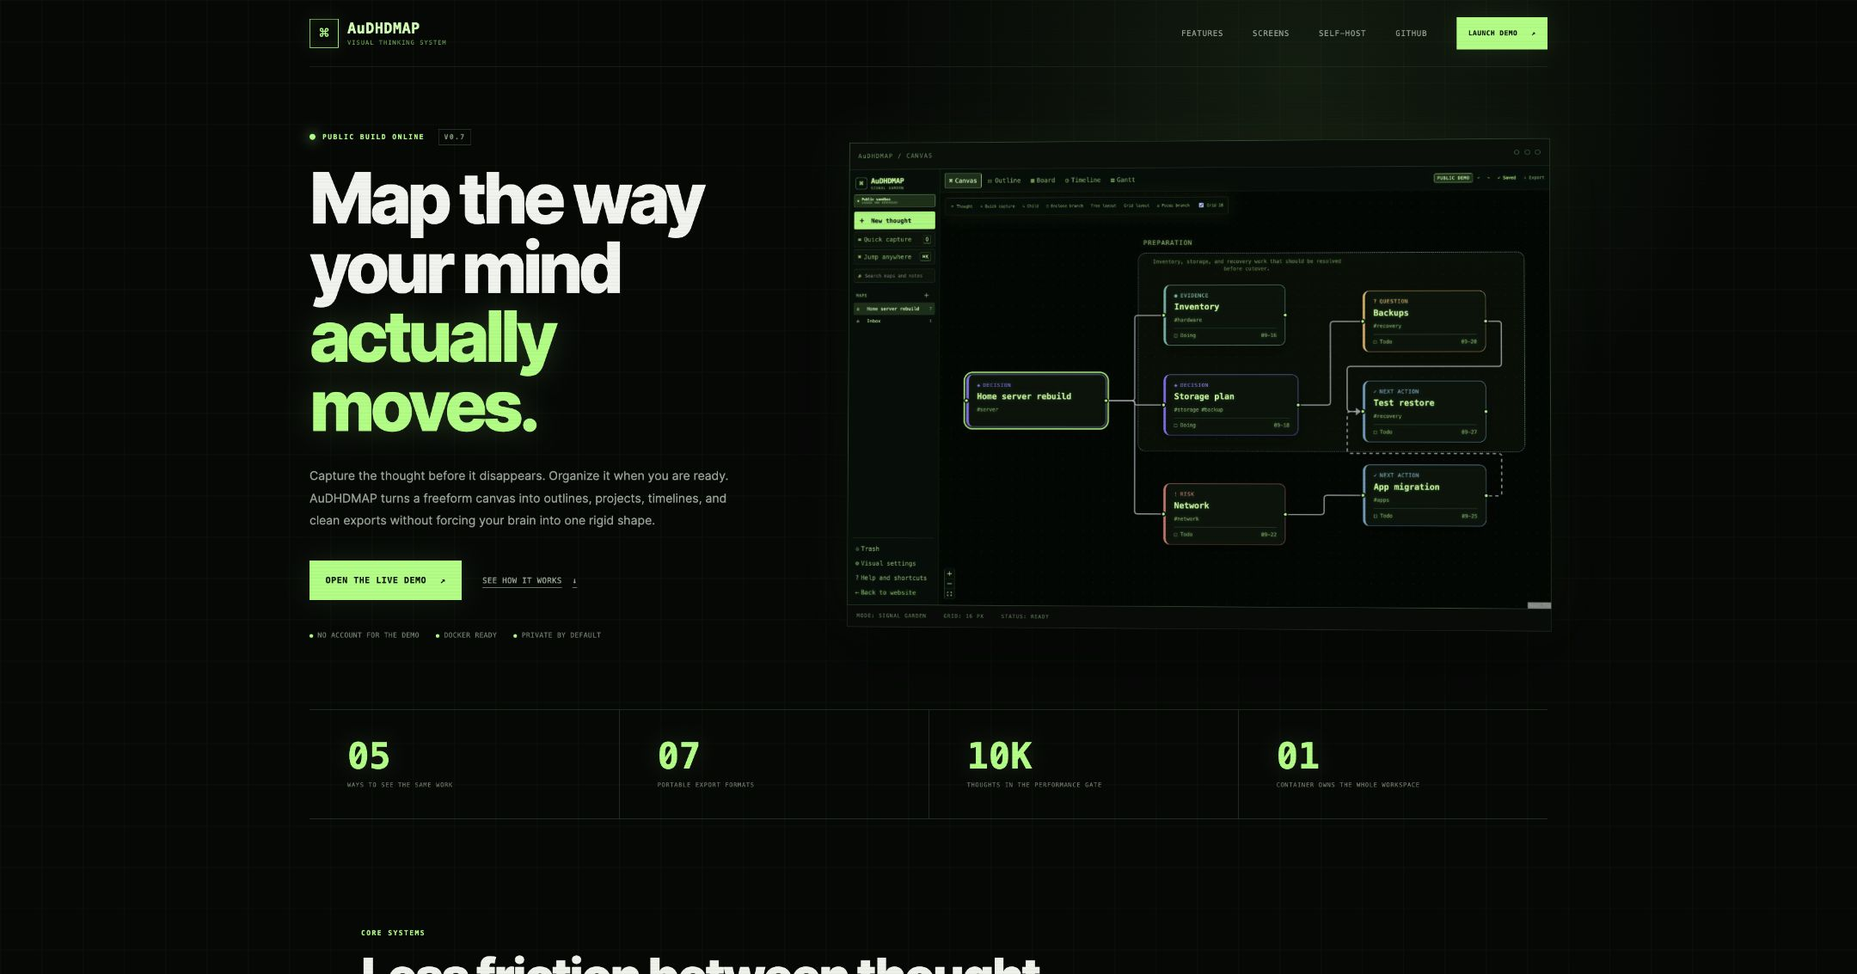
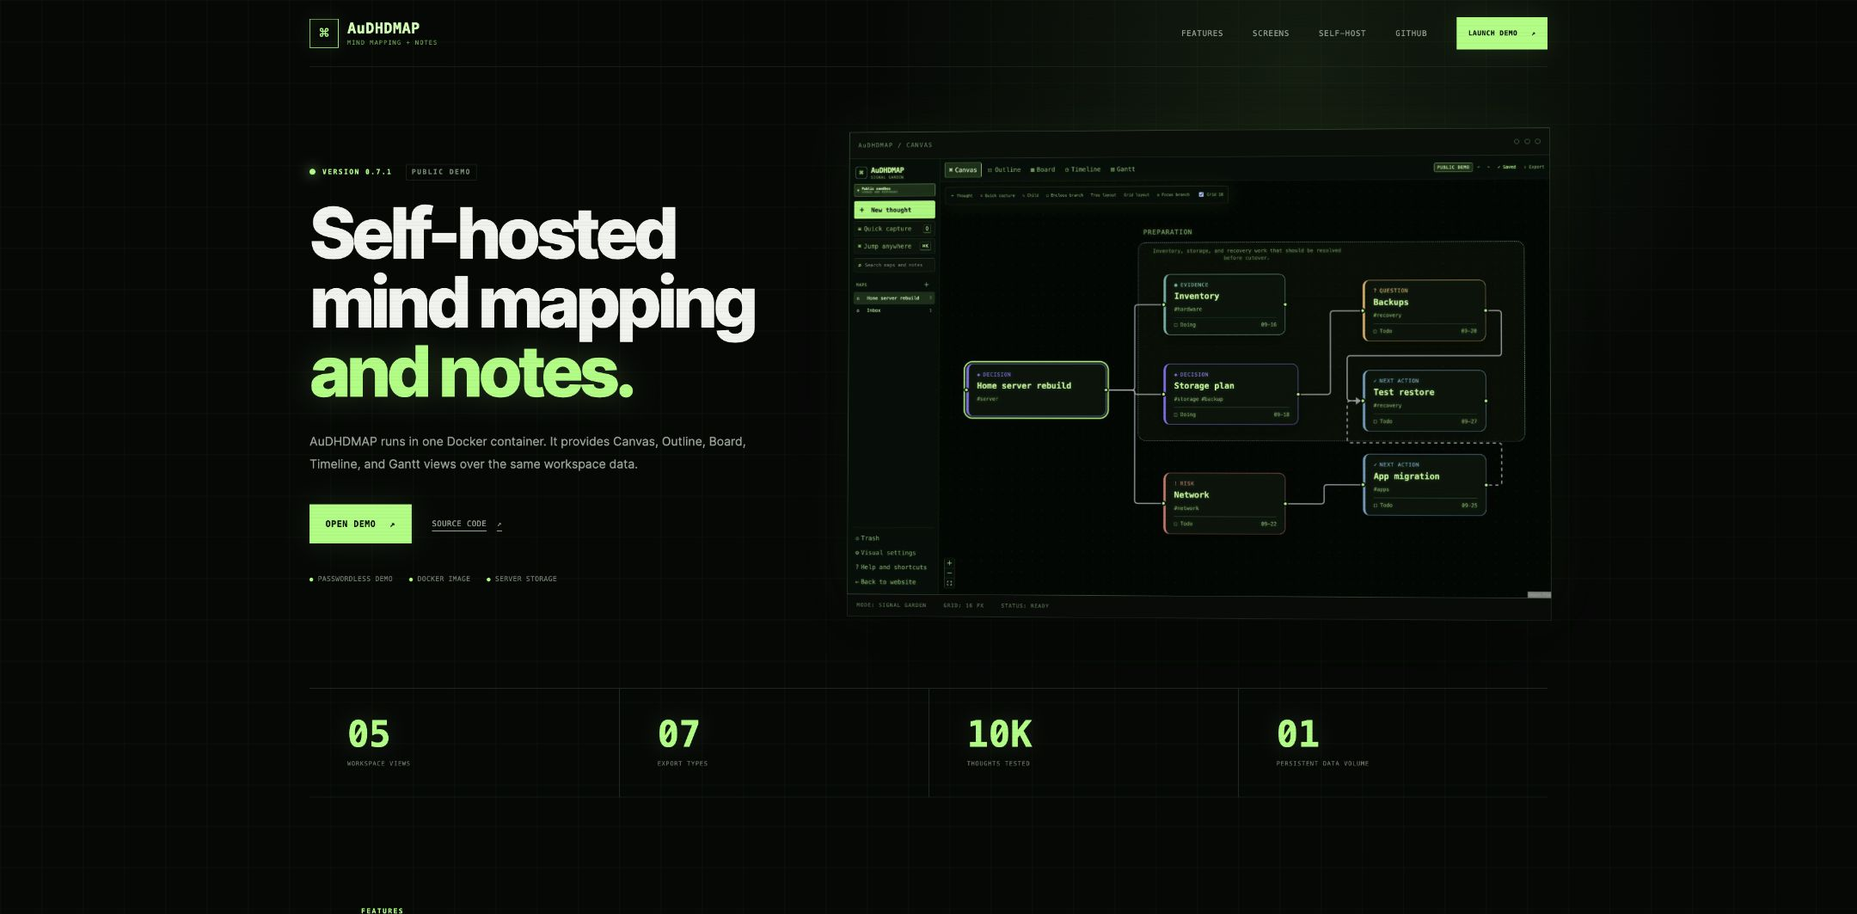
Use concise technical product copy

diff --git a/src/LandingPage.tsx b/src/LandingPage.tsx
@@ -1,14 +1,14 @@
 import { useEffect } from "react";
 
 const features = [
-  { symbol: "⌘", title: "Freeform canvas", copy: "Drop thoughts anywhere, connect them later, and let the structure emerge at your pace." },
-  { symbol: "☷", title: "Outline in one click", copy: "Move between spatial thinking and a clean hierarchical document without rebuilding your work." },
-  { symbol: "◎", title: "Branch focus", copy: "Isolate one branch, keep its context, and hide everything that is not useful right now." },
-  { symbol: "▦", title: "Thoughts become projects", copy: "Add task status, priority, dates, progress, milestones, Board, Timeline, and Gantt views." },
-  { symbol: "⌨", title: "Keyboard first", copy: "Capture, branch, outdent, search, focus, undo, and jump between ideas without leaving the keyboard." },
-  { symbol: "◫", title: "Predictable layouts", copy: "Snap to a strict grid or apply tree and grid layouts when a crowded map needs order." },
-  { symbol: "◉", title: "Sensory controls", copy: "Choose quiet, signal-green, amber CRT, workstation, or paper themes with motion and intensity controls." },
-  { symbol: "⇩", title: "Your data leaves cleanly", copy: "Export PDF, SVG, Markdown, text, project CSV, JSON, or a complete attachment-safe ZIP backup." },
+  { symbol: "⌘", title: "Canvas", copy: "Place thoughts freely, move them, connect them, and group branches inside labeled boundaries." },
+  { symbol: "☷", title: "Outline", copy: "View and edit the same map as an indented text hierarchy. Branches can be collapsed." },
+  { symbol: "◎", title: "Branch focus", copy: "Show one branch, its parents, its children, and direct references. Hide unrelated nodes." },
+  { symbol: "▦", title: "Project fields", copy: "Add status, priority, start date, due date, progress, and milestones to any thought." },
+  { symbol: "⌨", title: "Keyboard controls", copy: "Create, branch, outdent, search, focus, undo, and switch locations from the keyboard." },
+  { symbol: "◫", title: "Layouts and grid", copy: "Snap manual movement to a grid or apply tree and grid layouts to the current map." },
+  { symbol: "◉", title: "Display settings", copy: "Select one of five themes and adjust brightness, saturation, font, shape, line width, motion, and CRT effects." },
+  { symbol: "⇩", title: "Export and backup", copy: "Export PDF, SVG, Markdown, text, CSV, or JSON. Private installations also create complete ZIP backups." },
 ];
 
 export function LandingPage() {
@@ -16,8 +16,8 @@ export function LandingPage() {
     const previousTitle = document.title;
     const description = document.querySelector<HTMLMetaElement>('meta[name="description"]');
     const previousDescription = description?.content;
-    document.title = "AuDHDMAP | Visual thinking without the noise";
-    if (description) description.content = "A private, self-hosted mind mapping and note-taking workspace built for non-linear thinking, calm focus, and clean export.";
+    document.title = "AuDHDMAP | Self-hosted mind mapping and notes";
+    if (description) description.content = "A self-hosted mind mapping and note-taking application for Docker and BoxPilot.";
     return () => {
       document.title = previousTitle;
       if (description && previousDescription) description.content = previousDescription;
@@ -26,7 +26,7 @@ export function LandingPage() {
 
   return <div className="site-page">
     <header className="site-nav">
-      <a className="site-brand" href="#top" aria-label="AuDHDMAP home"><span>⌘</span><strong>AuDHDMAP</strong><small>VISUAL THINKING SYSTEM</small></a>
+      <a className="site-brand" href="#top" aria-label="AuDHDMAP home"><span>⌘</span><strong>AuDHDMAP</strong><small>MIND MAPPING + NOTES</small></a>
       <nav aria-label="Website"><a href="#features">Features</a><a href="#screens">Screens</a><a href="#self-host">Self-host</a><a href="https://github.com/AES256Afro/AuDHDMAP">GitHub</a></nav>
       <a className="site-button small" href="/demo">Launch demo <span aria-hidden="true">↗</span></a>
     </header>
@@ -34,11 +34,11 @@ export function LandingPage() {
     <main id="top">
       <section className="site-hero">
         <div className="site-hero-copy">
-          <div className="site-kicker"><i /> PUBLIC BUILD ONLINE <span>V0.7</span></div>
-          <h1>Map the way your mind <em>actually moves.</em></h1>
-          <p>Capture the thought before it disappears. Organize it when you are ready. AuDHDMAP turns a freeform canvas into outlines, projects, timelines, and clean exports without forcing your brain into one rigid shape.</p>
-          <div className="site-actions"><a className="site-button" href="/demo">Open the live demo <span aria-hidden="true">↗</span></a><a className="site-text-link" href="#screens">See how it works <span aria-hidden="true">↓</span></a></div>
-          <div className="site-proof" aria-label="Product qualities"><span><b>●</b> No account for the demo</span><span><b>●</b> Docker ready</span><span><b>●</b> Private by default</span></div>
+          <div className="site-kicker"><i /> VERSION 0.7.1 <span>PUBLIC DEMO</span></div>
+          <h1>Self-hosted mind mapping <em>and notes.</em></h1>
+          <p>AuDHDMAP runs in one Docker container. It provides Canvas, Outline, Board, Timeline, and Gantt views over the same workspace data.</p>
+          <div className="site-actions"><a className="site-button" href="/demo">Open demo <span aria-hidden="true">↗</span></a><a className="site-text-link" href="https://github.com/AES256Afro/AuDHDMAP">Source code <span aria-hidden="true">↗</span></a></div>
+          <div className="site-proof" aria-label="Product details"><span><b>●</b> Passwordless demo</span><span><b>●</b> Docker image</span><span><b>●</b> Server storage</span></div>
         </div>
         <div className="site-hero-screen">
           <div className="screen-frame"><div className="screen-bar"><span>AuDHDMAP / CANVAS</span><i /><i /><i /></div><img src="/site/canvas-map.jpg" alt="AuDHDMAP signal-green canvas showing a connected home server project map" /></div>
@@ -47,47 +47,47 @@ export function LandingPage() {
       </section>
 
       <section className="site-metrics" aria-label="Product summary">
-        <article><strong>05</strong><span>ways to see the same work</span></article>
-        <article><strong>07</strong><span>portable export formats</span></article>
-        <article><strong>10K</strong><span>thoughts in the performance gate</span></article>
-        <article><strong>01</strong><span>container owns the whole workspace</span></article>
+        <article><strong>05</strong><span>workspace views</span></article>
+        <article><strong>07</strong><span>export types</span></article>
+        <article><strong>10K</strong><span>thoughts tested</span></article>
+        <article><strong>01</strong><span>persistent data volume</span></article>
       </section>
 
       <section className="site-section" id="features">
-        <header className="site-section-heading"><div><span className="site-label">CORE SYSTEMS</span><h2>Less friction between thought and structure.</h2></div><p>Every feature is there to make capturing easier, context clearer, and recovery less frightening.</p></header>
+        <header className="site-section-heading"><div><span className="site-label">FEATURES</span><h2>Workspace functions</h2></div><p>The same saved workspace is used in every view and export.</p></header>
         <div className="site-feature-grid">{features.map((feature, index) => <article key={feature.title}><span className="feature-number">{String(index + 1).padStart(2, "0")}</span><i>{feature.symbol}</i><h3>{feature.title}</h3><p>{feature.copy}</p></article>)}</div>
       </section>
 
       <section className="site-section site-screens" id="screens">
-        <header className="site-section-heading"><div><span className="site-label">ONE MAP, MANY MODES</span><h2>Spatial when you need it. Linear when you do not.</h2></div><p>The data stays the same while the view changes around your task.</p></header>
+        <header className="site-section-heading"><div><span className="site-label">INTERFACE</span><h2>Canvas, outline, and export</h2></div><p>These screenshots were captured from version 0.7.1.</p></header>
         <div className="screen-story">
-          <article className="screen-story-copy"><span>01 / CANVAS</span><h3>Think before you format.</h3><p>Place ideas freely, connect related thoughts, draw stable boundaries, then apply an orderly layout only when it helps.</p><ul><li>Free pan and zoom</li><li>Tree and grid auto-layout</li><li>Cross-map references</li><li>Strict Branch Focus</li></ul></article>
+          <article className="screen-story-copy"><span>01 / CANVAS</span><h3>Canvas view</h3><p>Place, move, connect, and group thoughts on a pan-and-zoom canvas.</p><ul><li>Pan and zoom</li><li>Tree and grid layouts</li><li>Cross-map references</li><li>Branch focus</li></ul></article>
           <div className="screen-frame large"><div className="screen-bar"><span>SPATIAL WORKSPACE</span><i /><i /><i /></div><img src="/site/canvas-map.jpg" alt="Freeform AuDHDMAP canvas with linked thoughts and a details inspector" /></div>
         </div>
         <div className="screen-story reverse">
-          <article className="screen-story-copy"><span>02 / OUTLINE</span><h3>Turn the same map into a document.</h3><p>Edit titles in a predictable hierarchy, collapse branches, and keep references visible without losing the original spatial map.</p><ul><li>Instant map-to-outline switch</li><li>Inline title editing</li><li>Collapsed branch counts</li><li>Project-ready hierarchy</li></ul></article>
+          <article className="screen-story-copy"><span>02 / OUTLINE</span><h3>Outline view</h3><p>Edit the same map as an indented hierarchy. References remain separate from parent and child branches.</p><ul><li>Immediate view switch</li><li>Inline title editing</li><li>Collapsed branches</li><li>Task fields retained</li></ul></article>
           <div className="screen-frame large"><div className="screen-bar"><span>LINEAR WORKSPACE</span><i /><i /><i /></div><img src="/site/outline-view.jpg" alt="AuDHDMAP outline view showing the same project as a clean hierarchy" /></div>
         </div>
         <div className="screen-story">
-          <article className="screen-story-copy"><span>03 / EXPORT</span><h3>Leave with useful files, not a hostage format.</h3><p>Share what is visible, hand a project to a spreadsheet, or back up the entire workspace with its attachments and integrity checks.</p><ul><li>Visual PDF plus readable outline</li><li>SVG, Markdown, and plain text</li><li>Project CSV and JSON</li><li>Complete ZIP backup and restore</li></ul></article>
-          <div className="screen-frame large"><div className="screen-bar"><span>PORTABLE BY DESIGN</span><i /><i /><i /></div><img src="/site/export-panel.jpg" alt="AuDHDMAP export panel with PDF, SVG, Markdown, text, and project CSV choices" /></div>
+          <article className="screen-story-copy"><span>03 / EXPORT</span><h3>Export panel</h3><p>Export the current map or focused branch. Private installations also provide complete backup and restore.</p><ul><li>PDF with map and outline</li><li>SVG, Markdown, and text</li><li>Project CSV and JSON</li><li>ZIP backup and restore</li></ul></article>
+          <div className="screen-frame large"><div className="screen-bar"><span>EXPORT OPTIONS</span><i /><i /><i /></div><img src="/site/export-panel.jpg" alt="AuDHDMAP export panel with PDF, SVG, Markdown, text, and project CSV choices" /></div>
         </div>
       </section>
 
       <section className="site-section sensory-section">
-        <div><span className="site-label">SENSORY CONTROL</span><h2>Calm is a setting, not an assumption.</h2><p>Choose the environment your eyes and attention can work with today. Theme, contrast, brightness, saturation, branch font, node shape, line weight, grid behavior, motion, and CRT effects are all adjustable.</p></div>
+        <div><span className="site-label">DISPLAY</span><h2>Theme and display settings</h2><p>Select a theme and adjust brightness, saturation, branch font, node shape, line width, grid behavior, motion, and CRT effects.</p></div>
         <div className="theme-console" aria-label="Available themes"><article className="theme-quiet"><i /><strong>Quiet canvas</strong><small>LOW STIMULUS</small></article><article className="theme-signal"><i /><strong>Signal garden</strong><small>GREEN CRT</small></article><article className="theme-amber"><i /><strong>Amber operator</strong><small>WARM CRT</small></article><article className="theme-workstation"><i /><strong>Workstation 84</strong><small>RETRO DESKTOP</small></article><article className="theme-paper"><i /><strong>Paper atlas</strong><small>LIGHT READING</small></article></div>
       </section>
 
       <section className="site-section self-host-section" id="self-host">
-        <div className="self-host-copy"><span className="site-label">YOUR SERVER, YOUR NOTES</span><h2>Private by default. Portable on purpose.</h2><p>AuDHDMAP runs as one Docker container with one durable data volume. Install through BoxPilot or use Docker Compose. There is no required cloud account, analytics service, or proprietary sync layer.</p><div className="site-actions"><a className="site-button" href="https://github.com/AES256Afro/AuDHDMAP#run-with-docker-compose">Install with Docker</a><a className="site-text-link" href="https://github.com/AES256Afro/BoxPilot">View BoxPilot</a></div></div>
-        <div className="terminal-card"><header><span>BOXPILOT / APP CATALOGUE</span><b>● READY</b></header><pre><code><span>$</span> docker compose up -d{`\n\n`}✓ private owner login{`\n`}✓ persistent /data volume{`\n`}✓ built-in health check{`\n`}✓ complete ZIP recovery{`\n`}✓ amd64 + arm64 images</code></pre><footer>NO THIRD-PARTY ACCOUNT REQUIRED</footer></div>
+        <div className="self-host-copy"><span className="site-label">DEPLOYMENT</span><h2>Docker and BoxPilot</h2><p>The application uses one container and one persistent `/data` volume. Private installations require an owner password and session secret. No external account is required.</p><div className="site-actions"><a className="site-button" href="https://github.com/AES256Afro/AuDHDMAP#run-with-docker-compose">Docker instructions</a><a className="site-text-link" href="https://github.com/AES256Afro/BoxPilot">BoxPilot source</a></div></div>
+        <div className="terminal-card"><header><span>BOXPILOT / APP CATALOGUE</span><b>● READY</b></header><pre><code><span>$</span> docker compose up -d{`\n\n`}✓ private owner login{`\n`}✓ persistent /data volume{`\n`}✓ built-in health check{`\n`}✓ complete ZIP recovery{`\n`}✓ amd64 + arm64 images</code></pre><footer>RUNTIME: DOCKER</footer></div>
       </section>
 
-      <section className="site-final-cta"><span className="site-label">THE SANDBOX IS OPEN</span><h2>Put a few thoughts down.<br />See where they connect.</h2><p>The public demo is shared, temporary, and passwordless. Use it for exploration. Keep real work in a private BoxPilot or Docker installation.</p><a className="site-button" href="/demo">Launch AuDHDMAP <span aria-hidden="true">↗</span></a></section>
+      <section className="site-final-cta"><span className="site-label">PUBLIC DEMO</span><h2>Shared test workspace</h2><p>No password is required. Data is shared with other visitors and can be reset. Do not enter private information.</p><a className="site-button" href="/demo">Open demo <span aria-hidden="true">↗</span></a></section>
     </main>
 
-    <footer className="site-footer"><a className="site-brand" href="#top"><span>⌘</span><strong>AuDHDMAP</strong></a><p>Visual thinking without the noise.</p><nav><a href="https://github.com/AES256Afro/AuDHDMAP">Source</a><a href="https://github.com/AES256Afro/AuDHDMAP/blob/main/docs/SECURITY.md">Security</a><a href="/demo">Demo</a></nav></footer>
+    <footer className="site-footer"><a className="site-brand" href="#top"><span>⌘</span><strong>AuDHDMAP</strong></a><p>Version 0.7.1</p><nav><a href="https://github.com/AES256Afro/AuDHDMAP">Source</a><a href="https://github.com/AES256Afro/AuDHDMAP/blob/main/docs/SECURITY.md">Security</a><a href="/demo">Demo</a></nav></footer>
     <div className="site-scanlines" aria-hidden="true" />
   </div>;
 }

diff --git a/index.html b/index.html
@@ -4,20 +4,20 @@
     <meta charset="UTF-8" />
     <meta name="viewport" content="width=device-width, initial-scale=1.0" />
     <meta name="theme-color" content="#071109" />
-    <meta name="description" content="A private, self-hosted mind mapping and note-taking workspace built for non-linear thinking, calm focus, and clean export." />
+    <meta name="description" content="A self-hosted mind mapping and note-taking application for Docker and BoxPilot." />
     <link rel="canonical" href="https://audhdmap.com/" />
     <meta property="og:type" content="website" />
     <meta property="og:site_name" content="AuDHDMAP" />
-    <meta property="og:title" content="AuDHDMAP | Visual thinking without the noise" />
-    <meta property="og:description" content="Capture thoughts freely, switch between canvas and outline, turn branches into projects, and export clean files from your own Docker container." />
+    <meta property="og:title" content="AuDHDMAP | Self-hosted mind mapping and notes" />
+    <meta property="og:description" content="Canvas, outline, project views, display settings, and file export in one Docker container." />
     <meta property="og:url" content="https://audhdmap.com/" />
     <meta property="og:image" content="https://audhdmap.com/site/canvas-map.jpg" />
     <meta property="og:image:alt" content="AuDHDMAP signal-green visual canvas" />
     <meta name="twitter:card" content="summary_large_image" />
-    <meta name="twitter:title" content="AuDHDMAP | Visual thinking without the noise" />
-    <meta name="twitter:description" content="A private, self-hosted visual thinking workspace with a passwordless public demo." />
+    <meta name="twitter:title" content="AuDHDMAP | Self-hosted mind mapping and notes" />
+    <meta name="twitter:description" content="Canvas, outline, project views, display settings, and file export in one Docker container." />
     <meta name="twitter:image" content="https://audhdmap.com/site/canvas-map.jpg" />
-    <title>AuDHDMAP | Visual thinking without the noise</title>
+    <title>AuDHDMAP | Self-hosted mind mapping and notes</title>
   </head>
   <body>
     <div id="root"></div>

diff --git a/src/LandingPage.test.tsx b/src/LandingPage.test.tsx
@@ -8,15 +8,15 @@ describe("AuDHDMAP product website", () => {
 
   it("offers the passwordless demo, real product screens, and self-hosting path", () => {
     render(<LandingPage />);
-    expect(screen.getByRole("heading", { name: /Map the way your mind actually moves/i })).not.toBeNull();
-    const demoLinks = screen.getAllByRole("link", { name: /demo|Launch AuDHDMAP/i });
+    expect(screen.getByRole("heading", { name: /Self-hosted mind mapping and notes/i })).not.toBeNull();
+    const demoLinks = screen.getAllByRole("link", { name: /demo/i });
     expect(demoLinks.length).toBeGreaterThanOrEqual(3);
     expect(demoLinks.every((link) => link.getAttribute("href") === "/demo")).toBe(true);
-    expect(screen.getByText("No account for the demo")).not.toBeNull();
-    expect(screen.getByText(/shared, temporary, and passwordless/i)).not.toBeNull();
+    expect(screen.getByText("Passwordless demo")).not.toBeNull();
+    expect(screen.getByText(/Do not enter private information/i)).not.toBeNull();
     expect(screen.getByRole("img", { name: /signal-green canvas/i }).getAttribute("src")).toBe("/site/canvas-map.jpg");
     expect(screen.getByRole("img", { name: /outline view/i }).getAttribute("src")).toBe("/site/outline-view.jpg");
     expect(screen.getByRole("img", { name: /export panel/i }).getAttribute("src")).toBe("/site/export-panel.jpg");
-    expect(screen.getByRole("link", { name: "Install with Docker" })).not.toBeNull();
+    expect(screen.getByRole("link", { name: "Docker instructions" })).not.toBeNull();
   });
 });

diff --git a/README.md b/README.md
@@ -4,7 +4,7 @@ AuDHDMAP is a private, self-hosted mind-mapping and note-taking workspace. Captu
 
 ![AuDHDMAP Signal Garden canvas](public/site/canvas-map.jpg)
 
-## What works in 0.7.0
+## What works in 0.7.1
 
 - Free pan-and-zoom canvas with draggable nodes, branches, two-way labeled references, editable group boundaries, grid snapping, and explicit tree or grid auto-layout.
 - Strict Branch Focus that shows the selected branch, its ancestors, descendants, and explicit references while hiding unrelated clutter.
@@ -75,7 +75,7 @@ The development login is `owner` with password `boxpilot`. Development data is w
 ```sh
 npm run check
 npm audit
-docker build -t audhdmap:0.7.0 .
+docker build -t audhdmap:0.7.1 .
 ```
 
 The health endpoint is available without authentication at `/api/health`. It reports only application version, storage readiness, revision, bounded object counts, and recovery-point health counts. It never returns workspace content, filenames, point identifiers, or error details.
@@ -84,7 +84,7 @@ The health endpoint is available without authentication at `/api/health`. It rep
 
 The production image is designed for BoxPilot's generic application catalog:
 
-- image: `ghcr.io/aes256afro/audhdmap:0.7.0`
+- image: `ghcr.io/aes256afro/audhdmap:0.7.1`
 - container port: `3010`
 - persistent volume: `/data`
 - required generated secrets: `AUDHDMAP_ADMIN_PASSWORD` and `AUDHDMAP_SESSION_SECRET`

diff --git a/docs/SECURITY.md b/docs/SECURITY.md
@@ -2,7 +2,7 @@
 
 ## Intended boundary
 
-AuDHDMAP 0.7.0 is a private, single-owner application by default. It is suitable for a trusted individual or household behind BoxPilot, a private network, a VPN, or a carefully configured HTTPS reverse proxy. It is not a multi-tenant collaboration service and does not implement per-map roles or user isolation.
+AuDHDMAP 0.7.1 is a private, single-owner application by default. It is suitable for a trusted individual or household behind BoxPilot, a private network, a VPN, or a carefully configured HTTPS reverse proxy. It is not a multi-tenant collaboration service and does not implement per-map roles or user isolation.
 
 The separate `AUDHDMAP_PUBLIC_DEMO=1` deployment mode is only for a disposable shared product sandbox. It intentionally permits anonymous workspace reads, edits, and map-level exports. It disables operations that can upload, restore, retain, or permanently erase shared data. This mode must never hold private or durable notes.
 

diff --git a/CHANGELOG.md b/CHANGELOG.md
@@ -1,5 +1,9 @@
 # Changelog
 
+## 0.7.1
+
+- Replace promotional website copy with concise technical descriptions of the application, runtime, storage, views, exports, deployment requirements, and public-demo limits.
+
 ## 0.7.0
 
 - Add a responsive CRT-inspired product website at `audhdmap.com` with real Canvas, Outline, and Export screenshots, feature guidance, self-hosting details, and direct demo links.

diff --git a/docs/OPERATIONS.md b/docs/OPERATIONS.md
@@ -144,7 +144,7 @@ On the first deployment, store a random `AUDHDMAP_SESSION_SECRET` with `wrangler
 
 The demo's container-local `/data` is not a production backup target. A replacement or rollout can return it to the seed workspace. Keep real work in a durable BoxPilot or Docker deployment.
 
-## Limits in 0.7.0
+## Limits in 0.7.1
 
 - 200 maps
 - 10,000 thoughts
